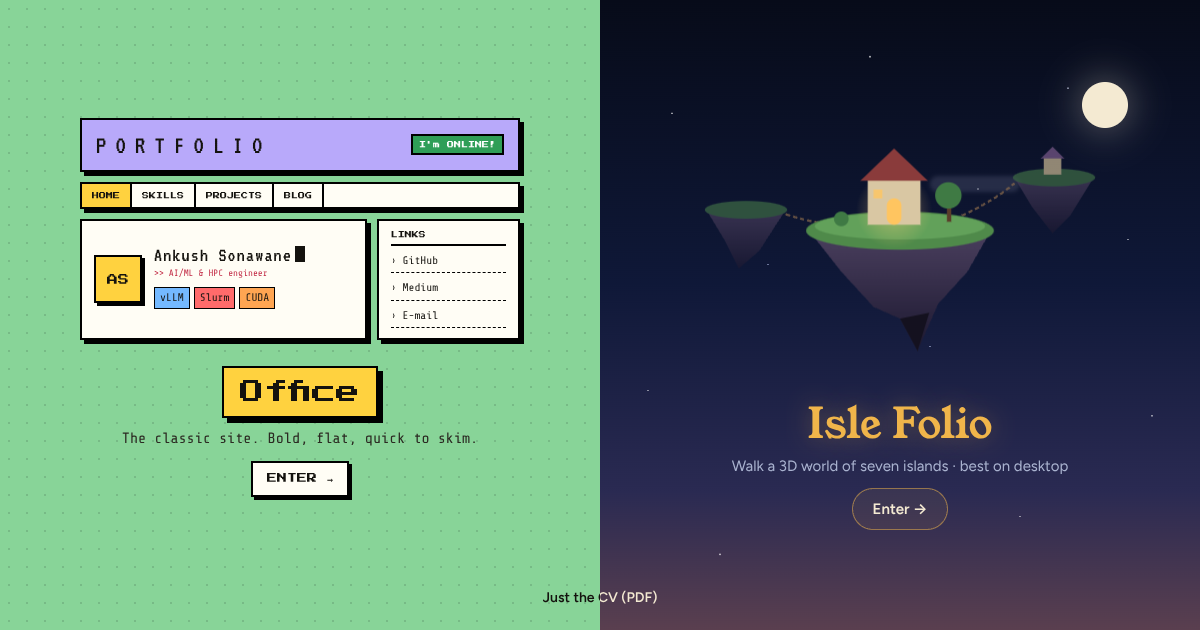
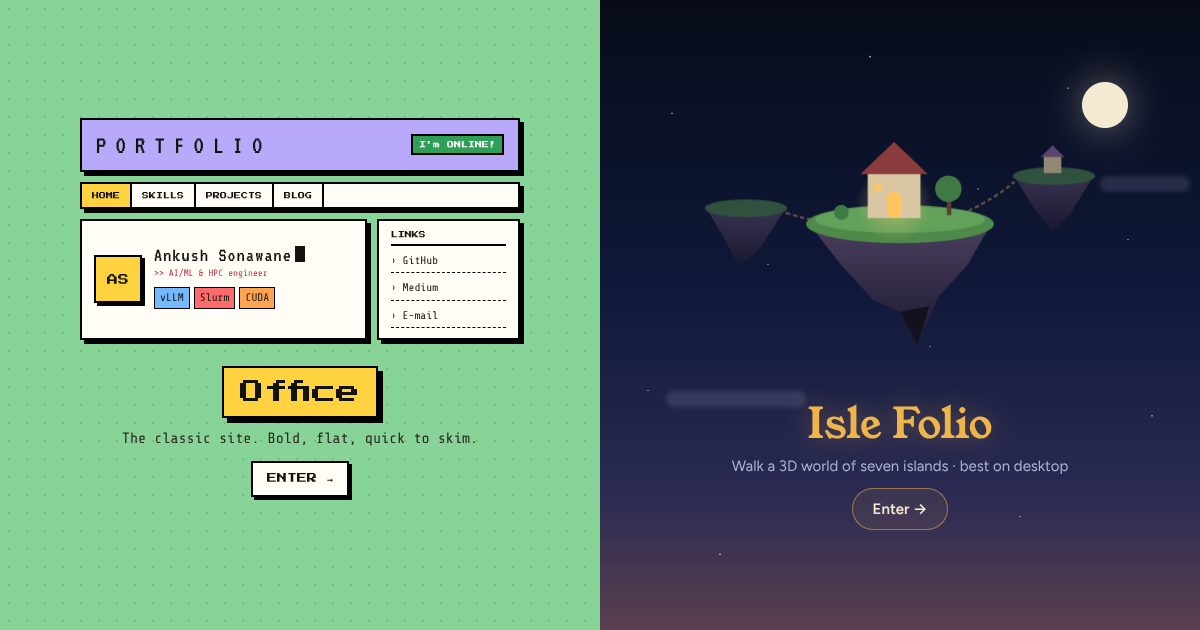
Gateway: remove the CV link
Claude-Session: https://claude.ai/code/session_01RsCNkEyLUGrr5oVvQHitHw

diff --git a/index.html b/index.html
@@ -95,22 +95,12 @@ body{background:var(--night);font:16px/1.5 Figtree,system-ui,sans-serif;overflow
 .isle:hover .go,.isle:focus-visible .go{background:rgba(240,181,74,.18);box-shadow:0 0 24px rgba(240,181,74,.35);transform:translateX(4px)}
 .note{color:var(--ember);font-size:14px;max-width:34ch}
 
-/* ---- the seam: CV link across the bottom ---- */
-.cv{position:absolute;left:50%;transform:translateX(-50%);z-index:2;white-space:nowrap;transition:left .55s cubic-bezier(.2,.8,.2,1)}
-.split:has(.office:hover) .cv,.split:has(.office:focus-visible) .cv{left:56.52%}  /* seam at 1.3/2.3 */
-.split:has(.isle:hover) .cv,.split:has(.isle:focus-visible) .cv{left:43.48%}
-.cv{bottom:22px;font-size:14px;font-weight:600;text-decoration:underline;text-underline-offset:3px;
-  background:linear-gradient(90deg,var(--ink) 50%,var(--cream) 50%);-webkit-background-clip:text;background-clip:text;color:transparent}
-
 @media (max-width:760px){
   .split{flex-direction:column}
   .half{flex:none;padding:48px 20px;gap:20px}
   .half:hover,.half:focus-visible{flex-grow:1}
   .split:hover .half:not(:hover){filter:none}
-  .cv,.split:has(.half:hover) .cv{left:50%}
   .moon{top:22px;right:22px;width:34px;height:34px}
-  .cv{background:none;color:var(--cream)}
-  .isle{padding-bottom:72px}
   .m-side{display:none}.m-grid{grid-template-columns:1fr}
 }
 .half:focus-visible{outline:3px solid var(--yellow);outline-offset:-6px}
@@ -175,7 +165,6 @@ body{background:var(--night);font:16px/1.5 Figtree,system-ui,sans-serif;overflow
     </div>
   </a>
 
-  <a class="cv" href="shared/resume/Ankush_Sonawane_Resume.pdf">Just the CV (PDF)</a>
 </main>
 
 <script>
